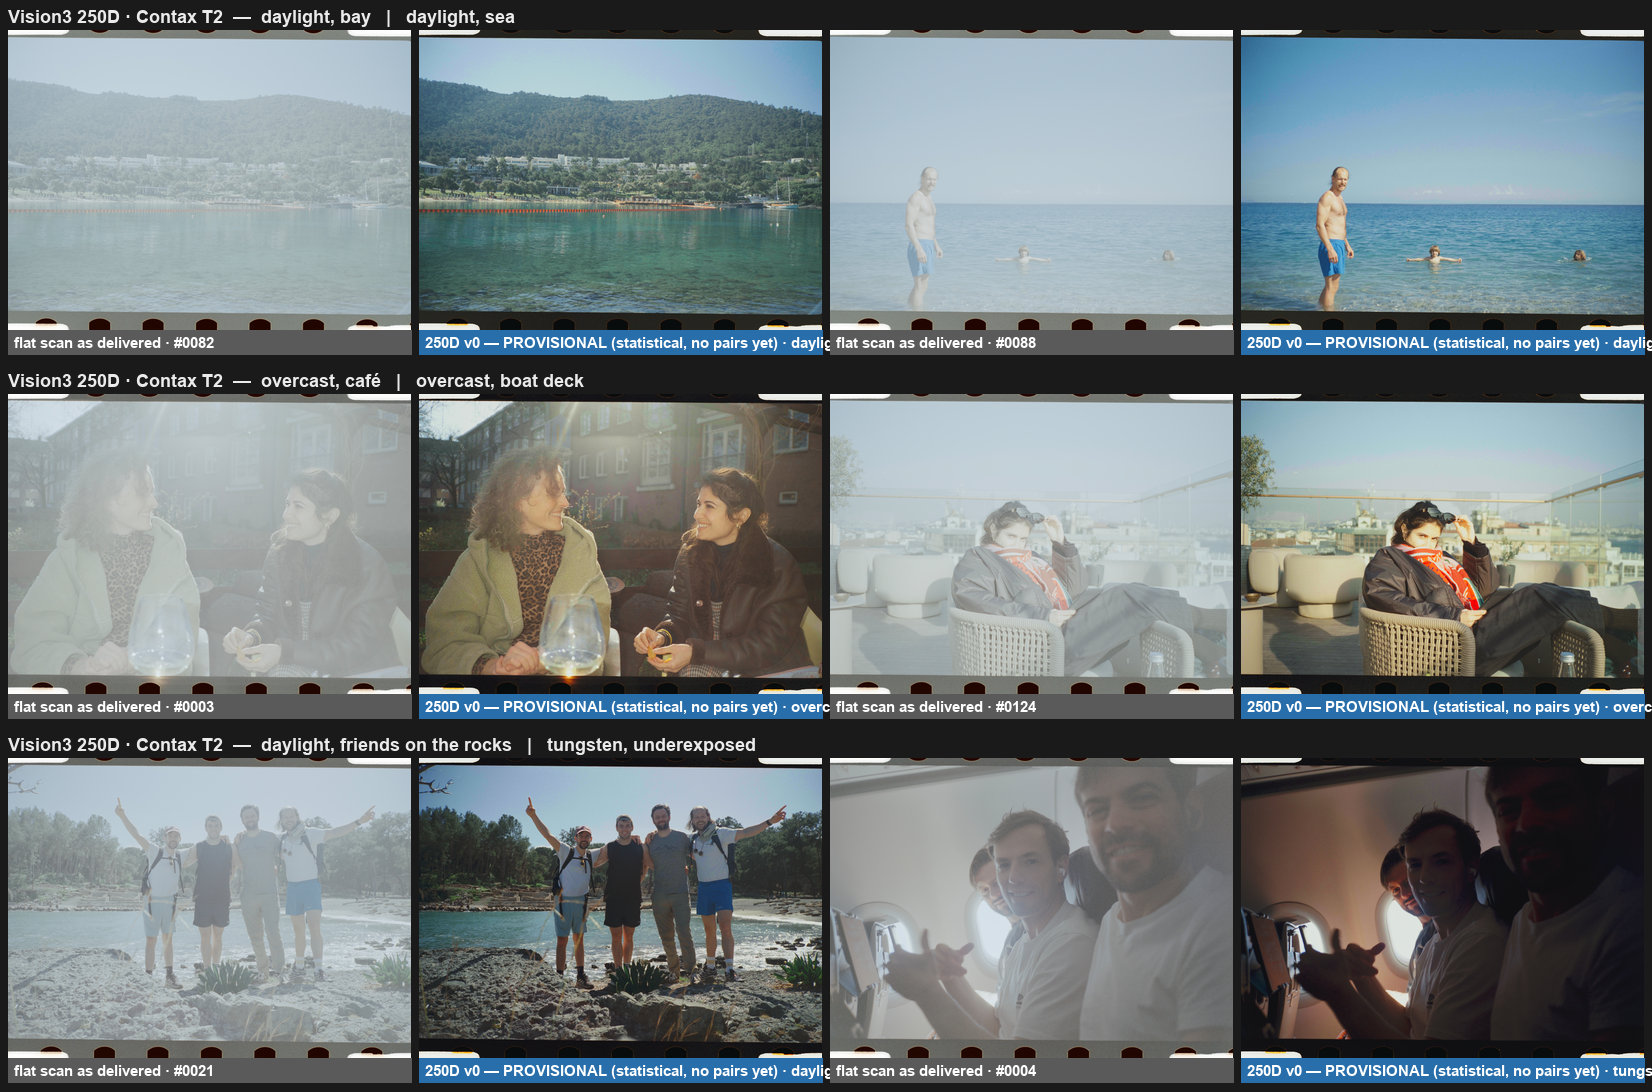
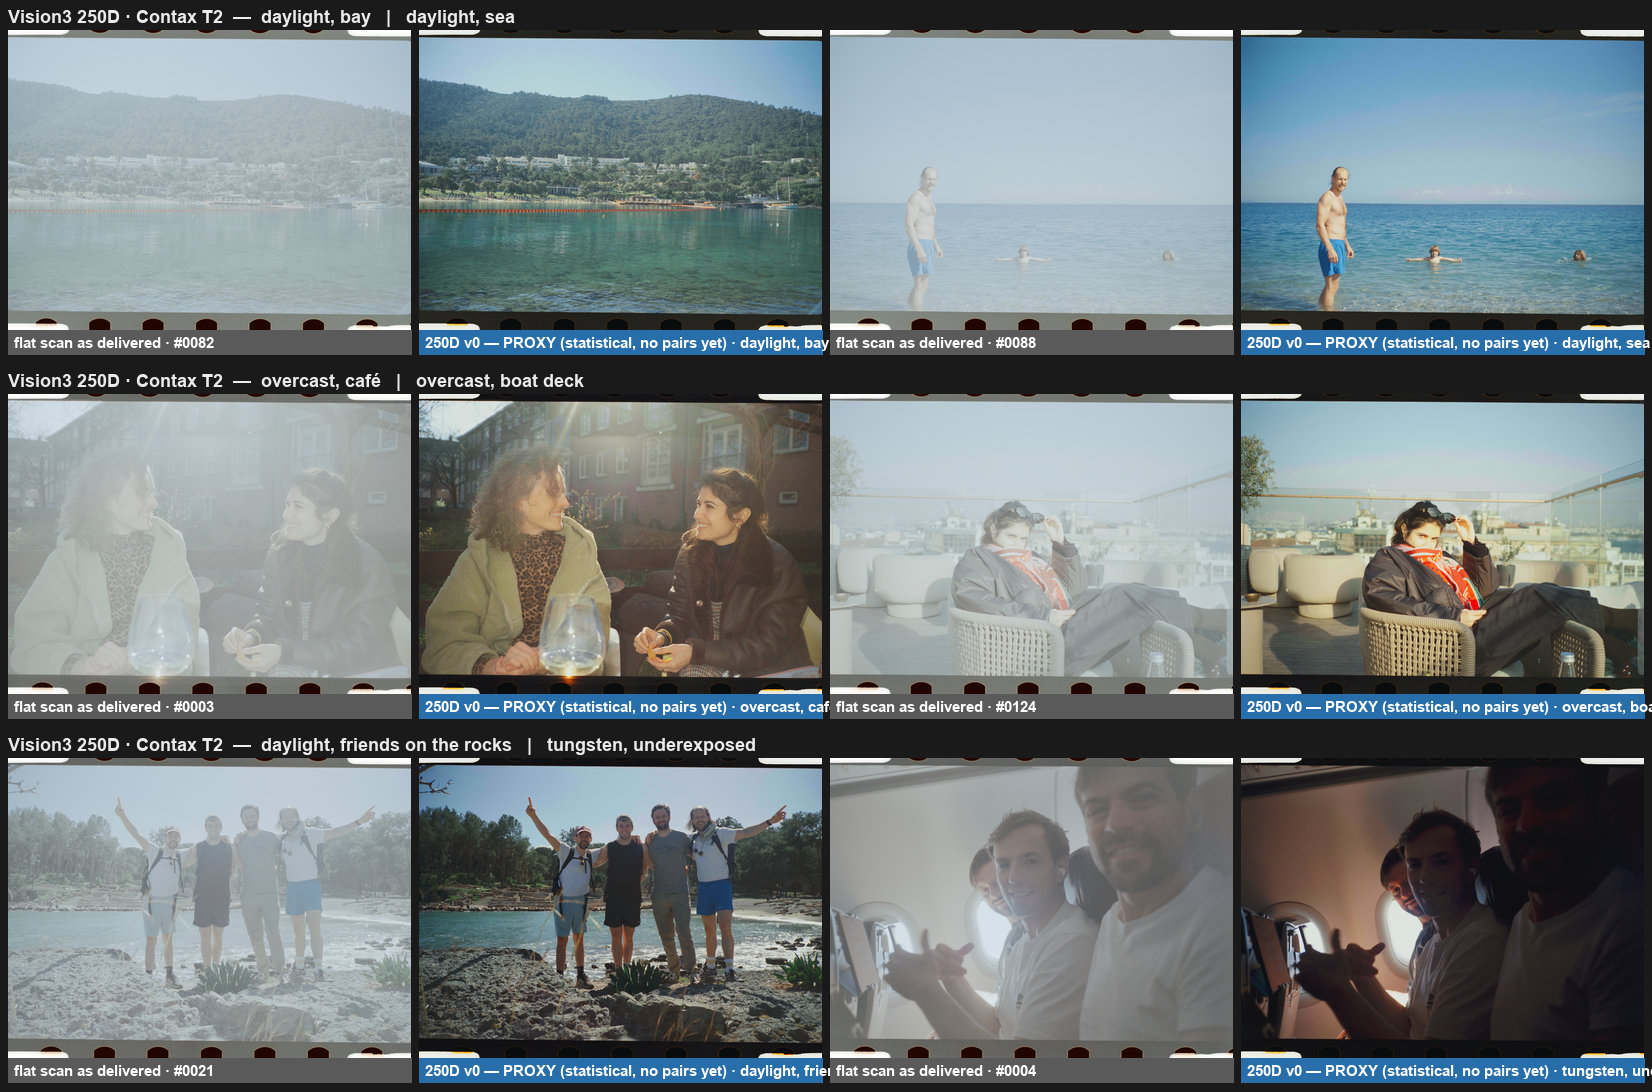
status vocabulary: validated / beta / proxy everywhere (wizard, README, docs, hero); archive composition verified from the lab's info cards
Claude-Session: https://claude.ai/code/session_01BLXENws1cYAKF9Beif3oke

diff --git a/src/silbersalz_look/wizard.py b/src/silbersalz_look/wizard.py
@@ -21,7 +21,7 @@ COL = 12  # receipt label column width
 
 # stock -> (LUT file, status, one-line honesty)
 LUTS = {
-    "250d": ("silbersalz-250d_v0-statistical_33.cube", "PROVISIONAL",
+    "250d": ("silbersalz-250d_v0-statistical_33.cube", "PROXY",
              "a statistical approximation — close in tone, skin a little light, skies a little dark. real 250D pairs will replace it."),
     "gold200": ("silbersalz-gold200_v1-paired_33.cube", "BETA",
                 "fitted from 27 real flat/graded pairs (one donor, two rolls). close to the lab on its own rolls; other rolls may want a small exposure nudge."),
@@ -29,15 +29,16 @@ LUTS = {
 STOCK_CHOICES = [("250d", "Vision3 250D"), ("50d", "Vision3 50D"), ("200t", "Vision3 200T"),
                  ("500t", "Vision3 500T"), ("gold200", "Kodak Gold 200"), ("125special", "125 Special"),
                  ("other", "something else / I don't know")]
-# lab terms for readiness, derived from LUTS: timed (fitted on real pairs) · one-light (one setting for the
-# roll, from the graded archive). Vision3 stocks without their own pairs borrow the 250D one-light: same
-# negative family, same scan encoding. Gold (C-41) is a different curve and never borrows.
-READINESS = {"PROVISIONAL": "one-light", "BETA": "timed", "MEASURED": "timed"}
+# readiness, derived from LUTS: validated (real pairs, checked on rolls the fit never saw) · beta (real pairs,
+# one donor so far) · proxy (no pairs — a stand-in estimated from the author's graded archive). Vision3 stocks
+# without their own LUT borrow the 250D proxy: same negative family, same scan encoding. Gold (C-41) is a
+# different curve and never borrows.
+READINESS = {"PROXY": "proxy", "BETA": "beta", "VALIDATED": "validated"}
 BORROWS = {"50d": "250d", "200t": "250d", "500t": "250d", "125special": "250d", "other": "250d"}
-READINESS_LEGEND = ("timed = colour-timed against real flat + graded pairs from the lab · "
-                    "one-light = no pairs yet, one setting for the roll from ~700 graded lab scans\n"
-                    "one-light (250D) = no pairs for this stock, borrows the 250D setting (same Vision3 family) · "
-                    "more pairs, less guesswork")
+READINESS_LEGEND = ("validated = fitted on real flat + graded pairs and checked on rolls it never saw · "
+                    "beta = fitted on real pairs, one donor so far\n"
+                    "proxy = no pairs yet, a stand-in estimated from the author's ~700 graded lab scans · "
+                    "proxy (250D) = borrows the 250D proxy, same Vision3 family · more pairs, less guesswork")
 
 
 def ask_stock() -> str:
@@ -47,7 +48,7 @@ def ask_stock() -> str:
 
 def readiness(stock: str) -> str | None:
     if stock in LUTS:
-        return READINESS.get(LUTS[stock][1], "one-light")
+        return READINESS.get(LUTS[stock][1], "proxy")
     if stock == "other":
         return None
     return f"{readiness(BORROWS[stock])} (250D)"
@@ -471,9 +472,9 @@ def _run() -> int:
         raise FileNotFoundError(str(cube))
     receipt("film", f"{cube_name.split('_')[0]} · {AMBER}{status}{RESET}")
     if borrowed == "other":
-        note("most Silbersalz rolls were Vision3, so this starts from the 250D one-light setting.")
+        note("most Silbersalz rolls were Vision3, so this starts from the 250D proxy.")
     elif borrowed:
-        note(f"no {dict(STOCK_CHOICES)[borrowed]} pairs yet — borrowing the 250D one-light setting. same Vision3 family, same scan encoding,\n"
+        note(f"no {dict(STOCK_CHOICES)[borrowed]} pairs yet — borrowing the 250D proxy. same Vision3 family, same scan encoding,\n"
              "so it is a fair first pass; real pairs of this stock would replace it. if you have any, please get in touch:\n"
              "https://github.com/atrouwee/saltgate")
     note(honesty)

diff --git a/src/silbersalz_look/__init__.py b/src/silbersalz_look/__init__.py
@@ -1,3 +1,3 @@
 """saltgate: open tools for finishing flat SILBERSALZ scans."""
 
-__version__ = "0.1.11"
+__version__ = "0.1.12"

diff --git a/README.md b/README.md
@@ -8,7 +8,7 @@
   <a href="docs/FINDINGS.md">What we learned</a>
 </p>
 
-<p align="center"><img src="docs/examples/hero_250d_before_after.jpg" width="900" alt="lab flat scan and SALTGATE render, six Vision3 250D frames across daylight, overcast, indoor and tungsten light — provisional 250D LUT"></p>
+<p align="center"><img src="docs/examples/hero_250d_before_after.jpg" width="900" alt="lab flat scan and SALTGATE render, six Vision3 250D frames across daylight, overcast, indoor and tungsten light — proxy 250D LUT"></p>
 
 SALTGATE is an independent community project built with appreciation for what SILBERSALZ brought to still photography: motion-picture film, ECN-2 processing, exceptionally detailed scans, and a distinctive approach to colour.
 
@@ -48,9 +48,9 @@ saltgate
 
 | Label | Meaning |
 |---|---|
-| **Measured** | fitted from genuine flat/graded pairs and evaluated on rolls and donors the fit never saw |
+| **Validated** | fitted from genuine flat/graded pairs and evaluated on rolls and donors the fit never saw |
 | **Beta** | pair-fitted, but from too few rolls or donors for a broad claim |
-| **Provisional** | statistical approximation without pairs — the character, not the grade |
+| **Proxy** | a stand-in without pairs — statistical approximation from the author's graded archive; the character, not the grade |
 | **Experimental** | research result kept for comparison; not recommended for photographs |
 
 Fidelity is stated as the ΔE2000 of the *bare LUT* against the lab's own graded files — what you actually get — under the stated validation. "Close" means close under those conditions, not identical.
@@ -58,12 +58,12 @@ Fidelity is stated as the ΔE2000 of the *bare LUT* against the lab's own graded
 | Stock | LUT | Status | Evidence |
 |---|---|---|---|
 | **Kodak Gold 200** (C-41) | `silbersalz-gold200_v1-paired_33.cube` | **Beta** — 27 pairs, one donor, two rolls (thanks Cody) | leave-one-roll-out median ΔE2000 **4.1** (p90 4.7); 1.4 with an oracle per-frame density/black (upper bound); frame-level on the same rolls 1.7. The roll-to-roll gap is per-roll density the LUT can't know — more rolls and donors will close it |
-| **Vision3 250D** | `silbersalz-250d_v0-statistical_33.cube` | **Provisional** — no pairs yet | matches tone and cast of the author's graded archive; renders skin ~8 L\* lighter and skies ~7 L\* darker than the lab |
+| **Vision3 250D** | `silbersalz-250d_v0-statistical_33.cube` | **Proxy** — no pairs yet | matches tone and cast of the author's graded archive (13 deliveries, ~700 frames: 250D throughout plus two 50D rolls, per the lab's info cards); renders skin ~8 L\* lighter and skies ~7 L\* darker than the lab |
 | Vision3 250D | `silbersalz-250d_v1-bridged_33.cube` | **Experimental** | Gold look + statistical tone bridge; colour cast, not recommended |
-| Vision3 50D / 200T / 500T / 125 Special | borrows `silbersalz-250d_v0-statistical_33.cube` | **Provisional, borrowed** — no pairs for these stocks | same negative family and the same scan encoding as 250D, so the 250D one-light is a fair first pass; their own pairs would replace it. (Gold ↔ Vision3 does *not* transfer — different curves) |
+| Vision3 50D / 200T / 500T / 125 Special | borrows `silbersalz-250d_v0-statistical_33.cube` | **Proxy (250D)** — no pairs for these stocks | same negative family and the same scan encoding as 250D, so the 250D one-light is a fair first pass; their own pairs would replace it. (Gold ↔ Vision3 does *not* transfer — different curves) |
 | other C-41 stocks the lab scanned | — | needs pairs | — |
 
-In the walkthrough these appear in lab terms: **timed** (colour-timed against real pairs), **one-light** (one setting for the roll, from the graded archive), **one-light (250D)** (borrowed).
+The walkthrough shows the same words next to each film: **validated** · **beta** · **proxy** · **proxy (250D)**.
 
 The lab introduced its APOLLON scanner in 2023; all LUTs so far are for **APOLLON-era raw files** (14012 × 10508 px). Earlier deliveries came from a different scanner and will need their own pairs. Full history: [`luts/CHANGELOG.md`](luts/CHANGELOG.md).
 
@@ -74,7 +74,7 @@ SILBERSALZ Film GmbH was founded in 2011 as a commercial film-production company
 
 ## Have flat *and* graded scans of the same frames? Get in touch
 
-Pairs are what turn a provisional LUT into a measured one — especially for the Vision3 stocks. If the lab delivered any of your frames both flat and graded (or you received flats in 2026 and the graded versions arrive later — keep both), please reach out to me, Adriaan: [open an issue](../../issues) or message me in the Silbersalz community group. I'll tell you exactly which files to send; they're used only to fit the transform and never published. **More pairs, less guesswork.**
+Pairs are what turn a proxy LUT into a validated one — especially for the Vision3 stocks. If the lab delivered any of your frames both flat and graded (or you received flats in 2026 and the graded versions arrive later — keep both), please reach out to me, Adriaan: [open an issue](../../issues) or message me in the Silbersalz community group. I'll tell you exactly which files to send; they're used only to fit the transform and never published. **More pairs, less guesswork.**
 
 ## What this is — and isn't
 
@@ -83,7 +83,7 @@ SALTGATE **is**:
 - an independent, open-source colour-reconstruction project;
 - based on measurements from contributor-owned flat/graded deliveries;
 - intended to help finish existing photographs and preserve technical knowledge;
-- explicit about which results are measured, beta, provisional or experimental.
+- explicit about which results are validated, beta, proxy or experimental.
 
 SALTGATE **is not**:
 

diff --git a/docs/USING_THE_LUTS.md b/docs/USING_THE_LUTS.md
@@ -46,5 +46,5 @@ sslook apply --lut silbersalz-gold200_v1-paired_33.cube --in ~/scans/roll12
 Output goes to a sibling folder `Graded_<version>/`, ICC and EXIF preserved (JPEG q95, 4:4:4; 16-bit output is on the roadmap). Add `--rotations rotations.json` after running `scripts/auto_rotate.py` for content-based upright orientation.
 
 ## Expectations
-- Fidelity is stated per LUT in the README (held-out ΔE2000 against the lab's own graded files where pairs exist; "provisional" where they don't).
+- Fidelity is stated per LUT in the README (held-out ΔE2000 against the lab's own graded files where pairs exist; "proxy" where they don't).
 - The lab also applied a small per-roll density offset and set black per frame (≈ ±0.04 stop). Nothing here reproduces that automatically — we measured that automatic per-frame balancing makes results *worse* than the bare LUT — so `sslook apply` and a host app give the same result. Nudge exposure to taste.
